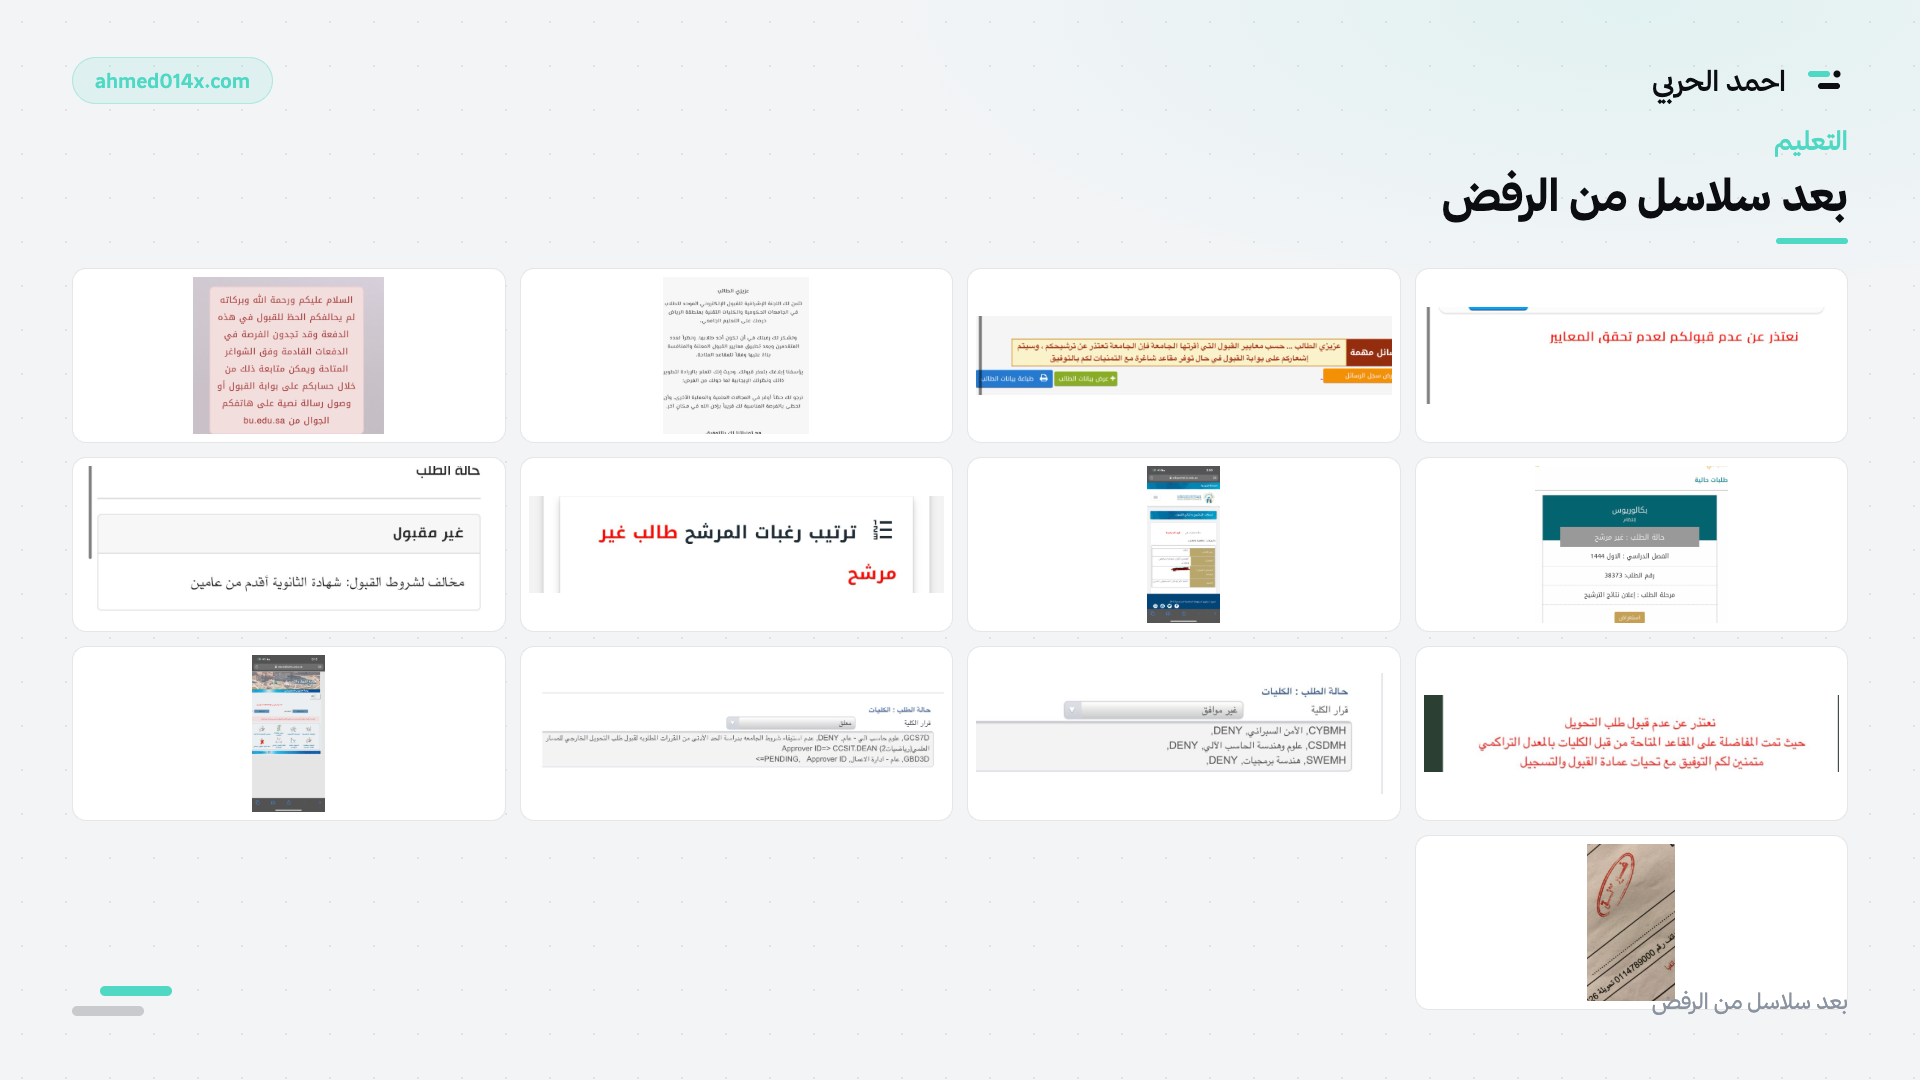
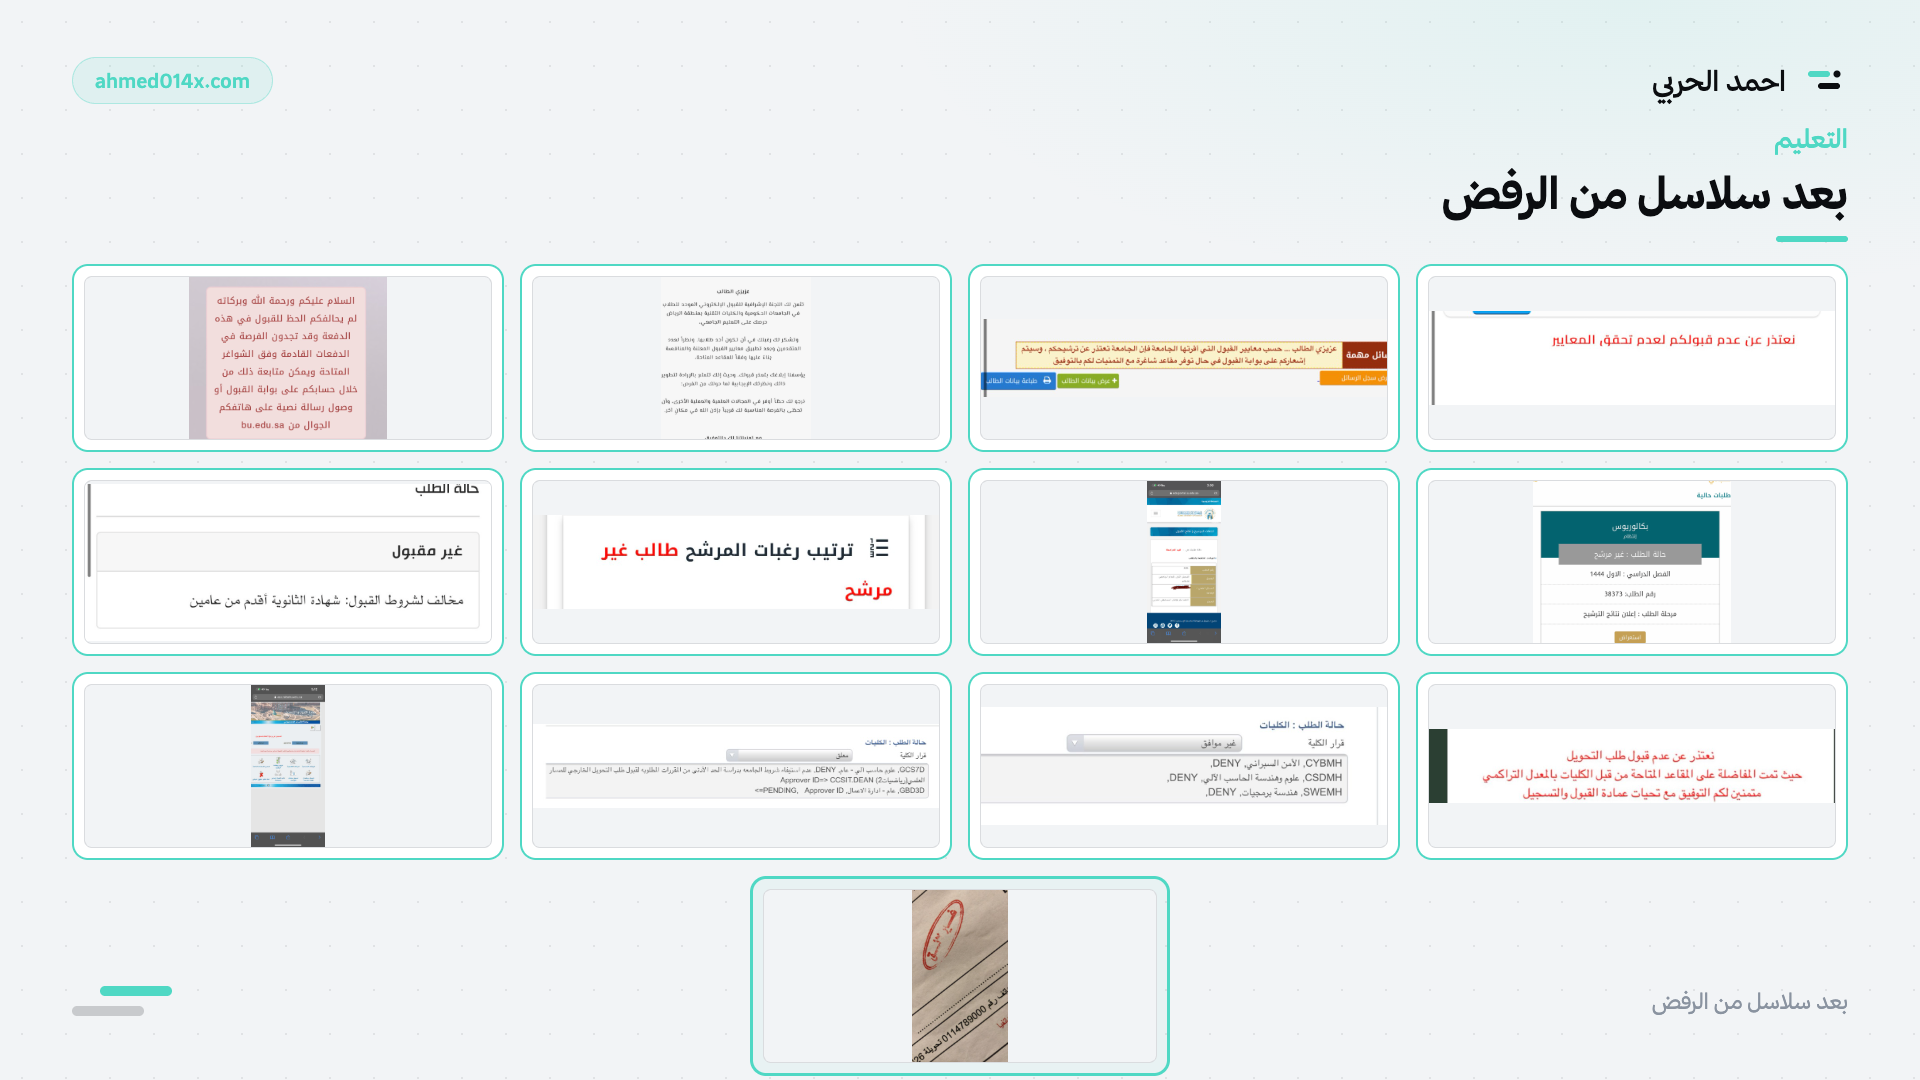
Refactor HTML structure and styles for "بعد سلاسل من الرفض" section, introducing a new reject-wrap for improved layout. Enhanced reject-item styling with updated borders and dimensions for better visual appeal. Updated PNG asset to reflect design changes.

diff --git a/brand-package/html/عرض-من-أنا.html b/brand-package/html/عرض-من-أنا.html
@@ -61,9 +61,12 @@ body{margin:0;background:#e8ebee;font-family:'Thmanyah Sans',sans-serif}
 .focus-title{font-size:28px;font-weight:700;color:#4fd8c4;line-height:1.3}
 .focus-desc{font-size:22px;line-height:1.65;color:#8a93a0;margin:0}
 .focus-flow{margin-top:28px;padding:24px 32px}
-.reject-grid{display:grid;grid-template-columns:repeat(4,1fr);gap:14px;flex:1;margin-top:24px;min-height:0;align-content:start}
-.reject-item{background:#ffffff;border:1px solid rgba(11,13,16,.10);border-radius:14px;padding:8px;overflow:hidden;display:flex;align-items:center;justify-content:center;height:175px}
-.reject-item img{width:100%;height:100%;object-fit:contain;display:block}
+.reject-wrap{display:flex;flex-direction:column;flex:1;min-height:0;margin-top:22px;gap:16px}
+.reject-grid{display:grid;grid-template-columns:repeat(4,1fr);gap:16px;align-content:start}
+.reject-item{background:#ffffff;border:2.5px solid #4fd8c4;border-radius:16px;padding:10px;overflow:hidden;display:flex;align-items:center;justify-content:center;height:188px;position:relative}
+.reject-item img{width:100%;height:100%;object-fit:contain;display:block;border-radius:8px;border:1.5px solid rgba(11,13,16,.10);background:#f2f4f6}
+.reject-featured{display:flex;justify-content:center}
+.reject-featured .reject-item{width:420px;height:200px;border-width:3px;background:rgba(79,216,196,.06)}
 </style>
 </head>
 <body>
@@ -267,25 +270,29 @@ body{margin:0;background:#e8ebee;font-family:'Thmanyah Sans',sans-serif}
     <span class="pill">ahmed014x.com</span>
   </div>
 
-  <div style="margin-top:20px;display:flex;flex-direction:column;flex:1;min-height:0">
+  <div style="margin-top:18px;display:flex;flex-direction:column;flex:1;min-height:0">
     <div class="kicker">التعليم</div>
     <div class="title" style="font-size:44px">بعد سلاسل من الرفض</div>
     <div class="bar"></div>
 
-    <div class="reject-grid">
-      <div class="reject-item"><img src="../png/عرض-من-أنا/رفض/IMG_1883-27f72721-1764-44bb-a6a0-2baa87f07edd.jpg" alt=""/></div>
-      <div class="reject-item"><img src="../png/عرض-من-أنا/رفض/IMG_1892-5cc081c7-b134-418a-af66-c56756d45c51.jpg" alt=""/></div>
-      <div class="reject-item"><img src="../png/عرض-من-أنا/رفض/IMG_1925-62393159-a992-4b5b-8816-1b517cb494b5.jpg" alt=""/></div>
-      <div class="reject-item"><img src="../png/عرض-من-أنا/رفض/IMG_1868-c15a1a94-1b7a-496e-8168-bd9f4339594f.jpg" alt=""/></div>
-      <div class="reject-item"><img src="../png/عرض-من-أنا/رفض/IMG_1864-fe954ada-1c29-4779-8568-6be6ba66d198.jpg" alt=""/></div>
-      <div class="reject-item"><img src="../png/عرض-من-أنا/رفض/IMG_1866-e7b37680-766b-4e7a-9d8c-11f5bf875588.jpg" alt=""/></div>
-      <div class="reject-item"><img src="../png/عرض-من-أنا/رفض/IMG_1852-30388f6d-4a13-4b97-8cef-c599626ef02a.jpg" alt=""/></div>
-      <div class="reject-item"><img src="../png/عرض-من-أنا/رفض/IMG_1786-d57daafa-f92f-4f1d-8709-20ab7b028d4c.jpg" alt=""/></div>
-      <div class="reject-item"><img src="../png/عرض-من-أنا/رفض/IMG_7463-d60df34e-ac40-4291-b71b-8c0f66754043.jpg" alt=""/></div>
-      <div class="reject-item"><img src="../png/عرض-من-أنا/رفض/IMG_7462-63c4e6eb-76d3-4ea9-aeb9-36090adc7c4b.jpg" alt=""/></div>
-      <div class="reject-item"><img src="../png/عرض-من-أنا/رفض/IMG_7408-c444c5e0-2ef0-428b-8931-bb0b7403b4e1.jpg" alt=""/></div>
-      <div class="reject-item"><img src="../png/عرض-من-أنا/رفض/IMG_1867-4a693fd3-f2b0-4b85-8761-8b0cdcbdbaaa.jpg" alt=""/></div>
-      <div class="reject-item"><img src="../png/عرض-من-أنا/رفض/PHOTO-2020-08-19-08-11-59-5f2066b5-594c-4e3f-a971-de7fc350a7fa.jpg" alt=""/></div>
+    <div class="reject-wrap">
+      <div class="reject-grid">
+        <div class="reject-item"><img src="../png/عرض-من-أنا/رفض/IMG_1883-27f72721-1764-44bb-a6a0-2baa87f07edd.jpg" alt=""/></div>
+        <div class="reject-item"><img src="../png/عرض-من-أنا/رفض/IMG_1892-5cc081c7-b134-418a-af66-c56756d45c51.jpg" alt=""/></div>
+        <div class="reject-item"><img src="../png/عرض-من-أنا/رفض/IMG_1925-62393159-a992-4b5b-8816-1b517cb494b5.jpg" alt=""/></div>
+        <div class="reject-item"><img src="../png/عرض-من-أنا/رفض/IMG_1868-c15a1a94-1b7a-496e-8168-bd9f4339594f.jpg" alt=""/></div>
+        <div class="reject-item"><img src="../png/عرض-من-أنا/رفض/IMG_1864-fe954ada-1c29-4779-8568-6be6ba66d198.jpg" alt=""/></div>
+        <div class="reject-item"><img src="../png/عرض-من-أنا/رفض/IMG_1866-e7b37680-766b-4e7a-9d8c-11f5bf875588.jpg" alt=""/></div>
+        <div class="reject-item"><img src="../png/عرض-من-أنا/رفض/IMG_1852-30388f6d-4a13-4b97-8cef-c599626ef02a.jpg" alt=""/></div>
+        <div class="reject-item"><img src="../png/عرض-من-أنا/رفض/IMG_1786-d57daafa-f92f-4f1d-8709-20ab7b028d4c.jpg" alt=""/></div>
+        <div class="reject-item"><img src="../png/عرض-من-أنا/رفض/IMG_7463-d60df34e-ac40-4291-b71b-8c0f66754043.jpg" alt=""/></div>
+        <div class="reject-item"><img src="../png/عرض-من-أنا/رفض/IMG_7462-63c4e6eb-76d3-4ea9-aeb9-36090adc7c4b.jpg" alt=""/></div>
+        <div class="reject-item"><img src="../png/عرض-من-أنا/رفض/IMG_7408-c444c5e0-2ef0-428b-8931-bb0b7403b4e1.jpg" alt=""/></div>
+        <div class="reject-item"><img src="../png/عرض-من-أنا/رفض/IMG_1867-4a693fd3-f2b0-4b85-8761-8b0cdcbdbaaa.jpg" alt=""/></div>
+      </div>
+      <div class="reject-featured">
+        <div class="reject-item"><img src="../png/عرض-من-أنا/رفض/PHOTO-2020-08-19-08-11-59-5f2066b5-594c-4e3f-a971-de7fc350a7fa.jpg" alt=""/></div>
+      </div>
     </div>
   </div>
 
